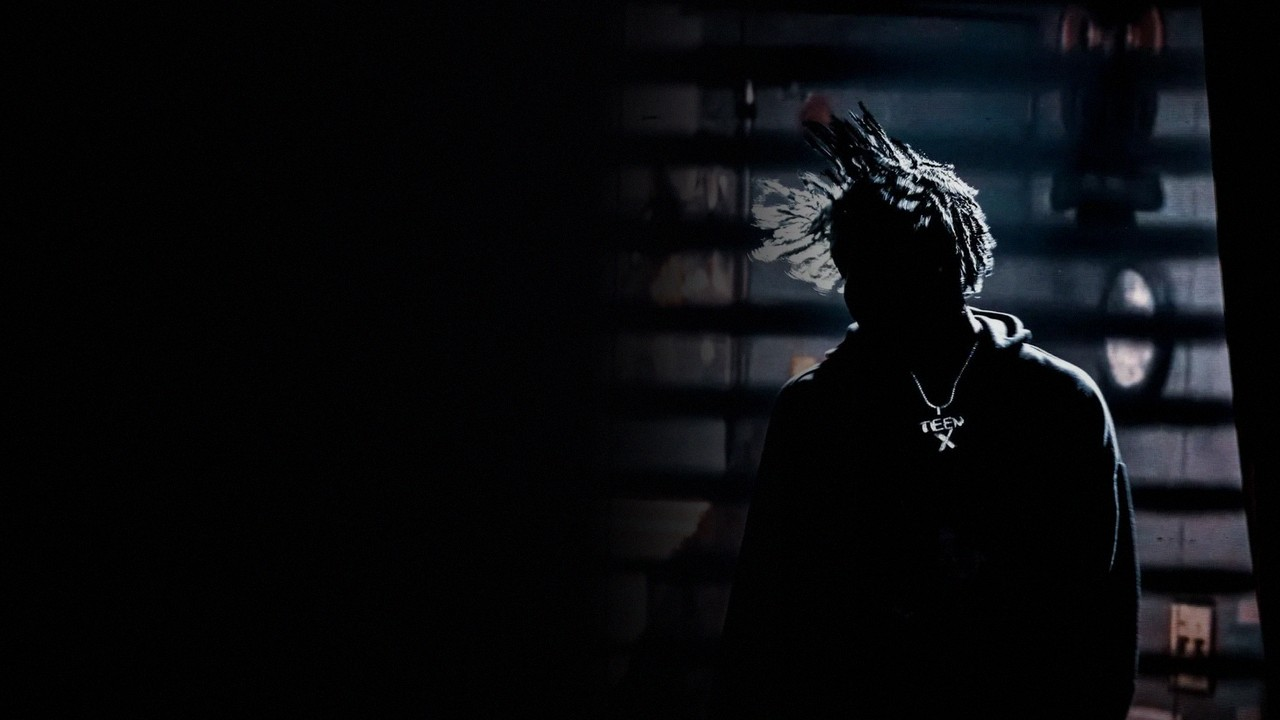
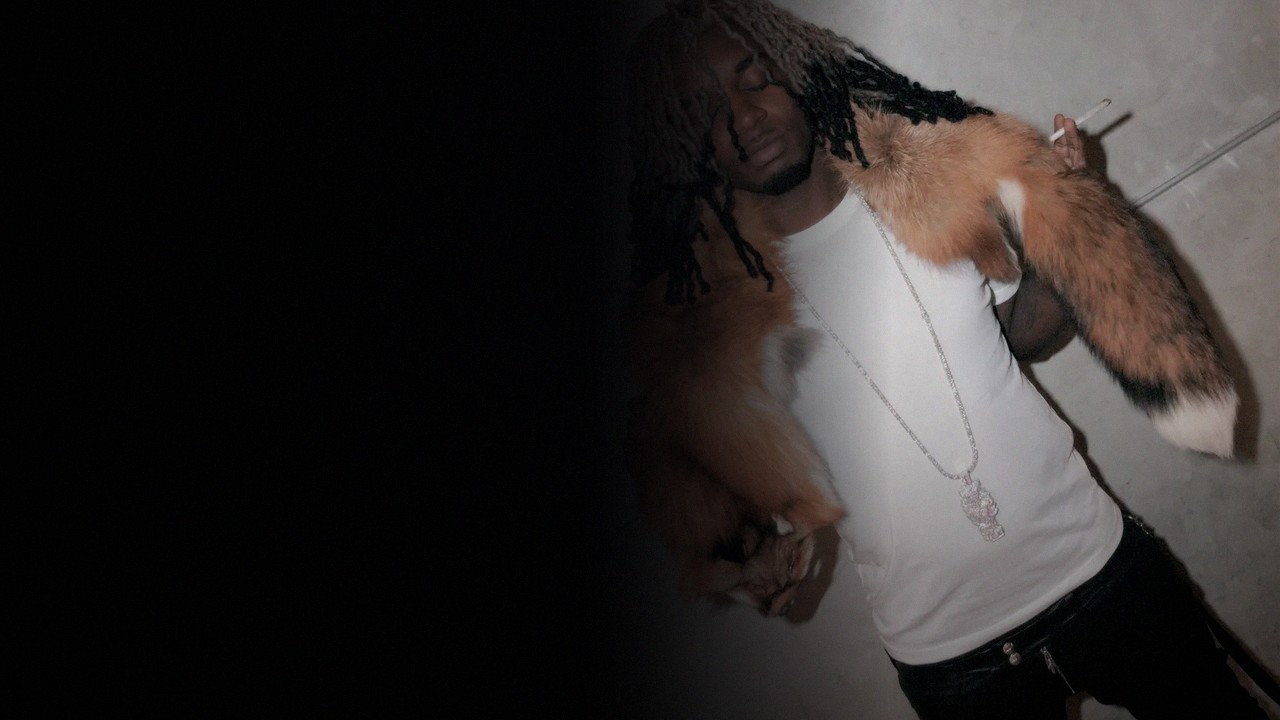
Eigene Fotos für Protect, OsamaSon, Nettspend; Ken-Bild in der Rapper-Reihe; Bildschirmschoner mit allen Fotos
Claude-Session: https://claude.ai/code/session_012xsyoHmz2QpYyobQWsGy7V

diff --git a/app/src/main/java/at/domi/tvlauncher/MainActivity.java b/app/src/main/java/at/domi/tvlauncher/MainActivity.java
@@ -1734,14 +1734,25 @@ public class MainActivity extends Activity {
         ui.postDelayed(saverCycle, 8000);
     }
 
+    String[] saverFiles;
+
     void nextSaverPic() {
-        List<int[]> pl = playlist();
-        if (pl.isEmpty()) return;
-        svPos = (svPos + 1) % pl.size();
-        int[] e = pl.get(svPos);
+        if (saverFiles == null) {
+            try { saverFiles = getAssets().list("saver"); } catch (Exception e) { saverFiles = new String[0]; }
+            if (saverFiles == null) saverFiles = new String[0];
+            java.util.Arrays.sort(saverFiles);
+        }
+        if (saverFiles.length == 0) return;
+        svPos = (svPos + 1) % saverFiles.length;
+        Bitmap pic = null;
+        try {
+            InputStream in = getAssets().open("saver/" + saverFiles[svPos]);
+            pic = BitmapFactory.decodeStream(in);
+            in.close();
+        } catch (Exception ignored) { }
         final ImageView next = svUseA ? svB : svA, old = svUseA ? svA : svB;
         svUseA = !svUseA;
-        next.setImageBitmap(loadRapPic(e[0], e[1]));
+        next.setImageBitmap(pic);
         next.animate().cancel();
         old.animate().cancel();
         next.setAlpha(0f);
@@ -1995,7 +2006,7 @@ public class MainActivity extends Activity {
     // =====================================================================
     Bitmap loadBg(int i) {
         try {
-            InputStream in = getAssets().open("rap/" + APP_PHOTO[i] + ".jpg");
+            InputStream in = getAssets().open("home/" + i + ".jpg");
             BitmapFactory.Options o = new BitmapFactory.Options();
             o.inPreferredConfig = Bitmap.Config.ARGB_8888;
             Bitmap b = BitmapFactory.decodeStream(in, null, o);
